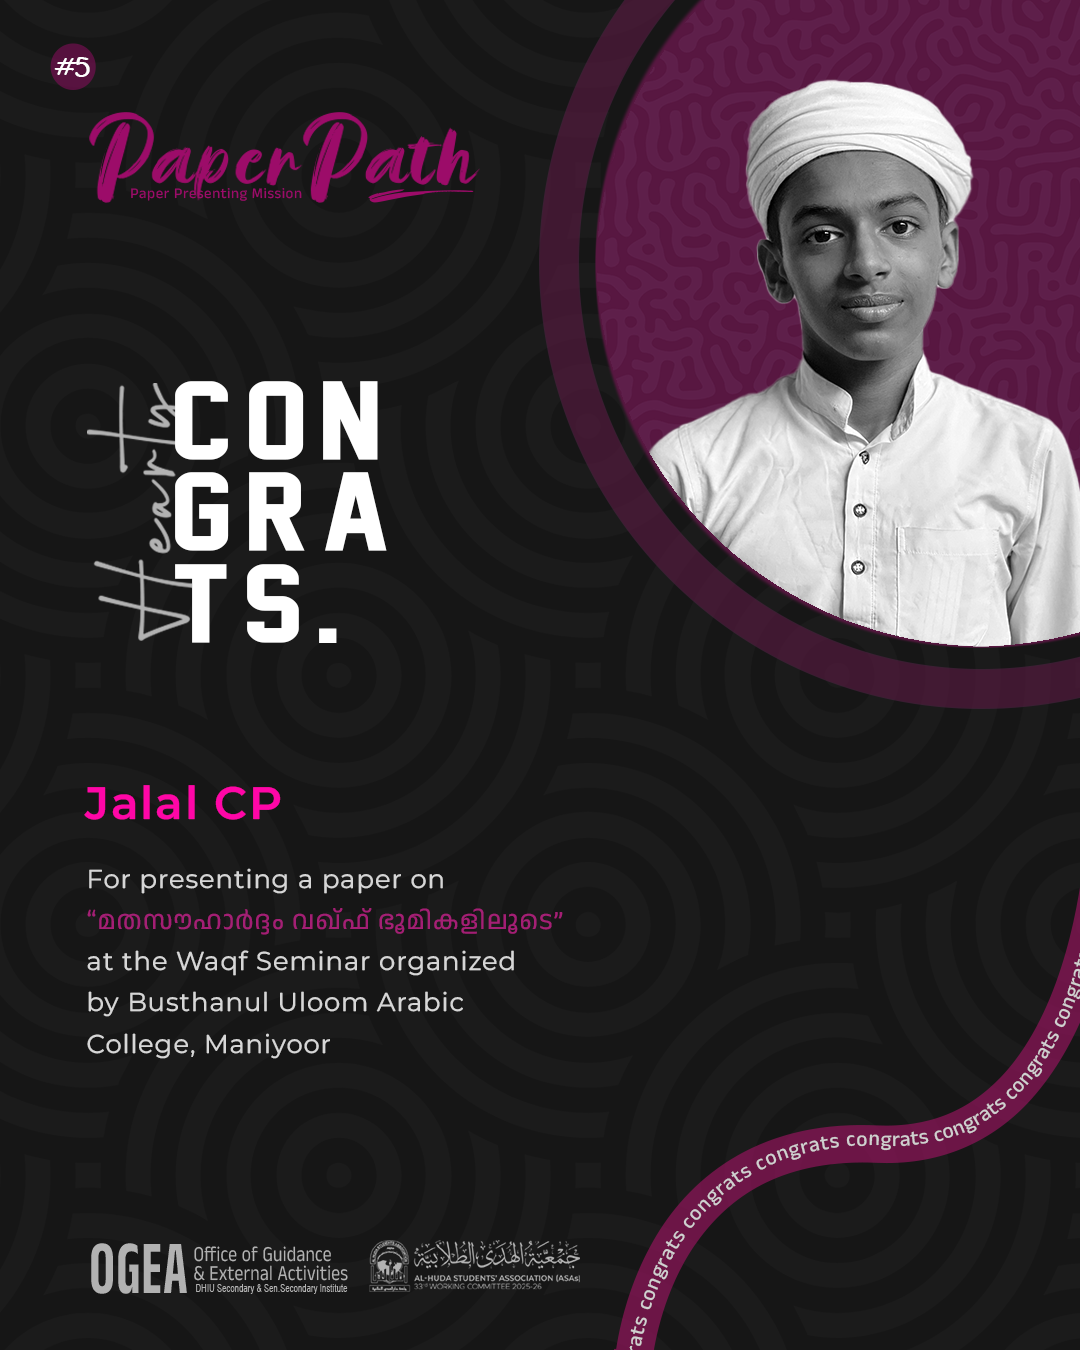
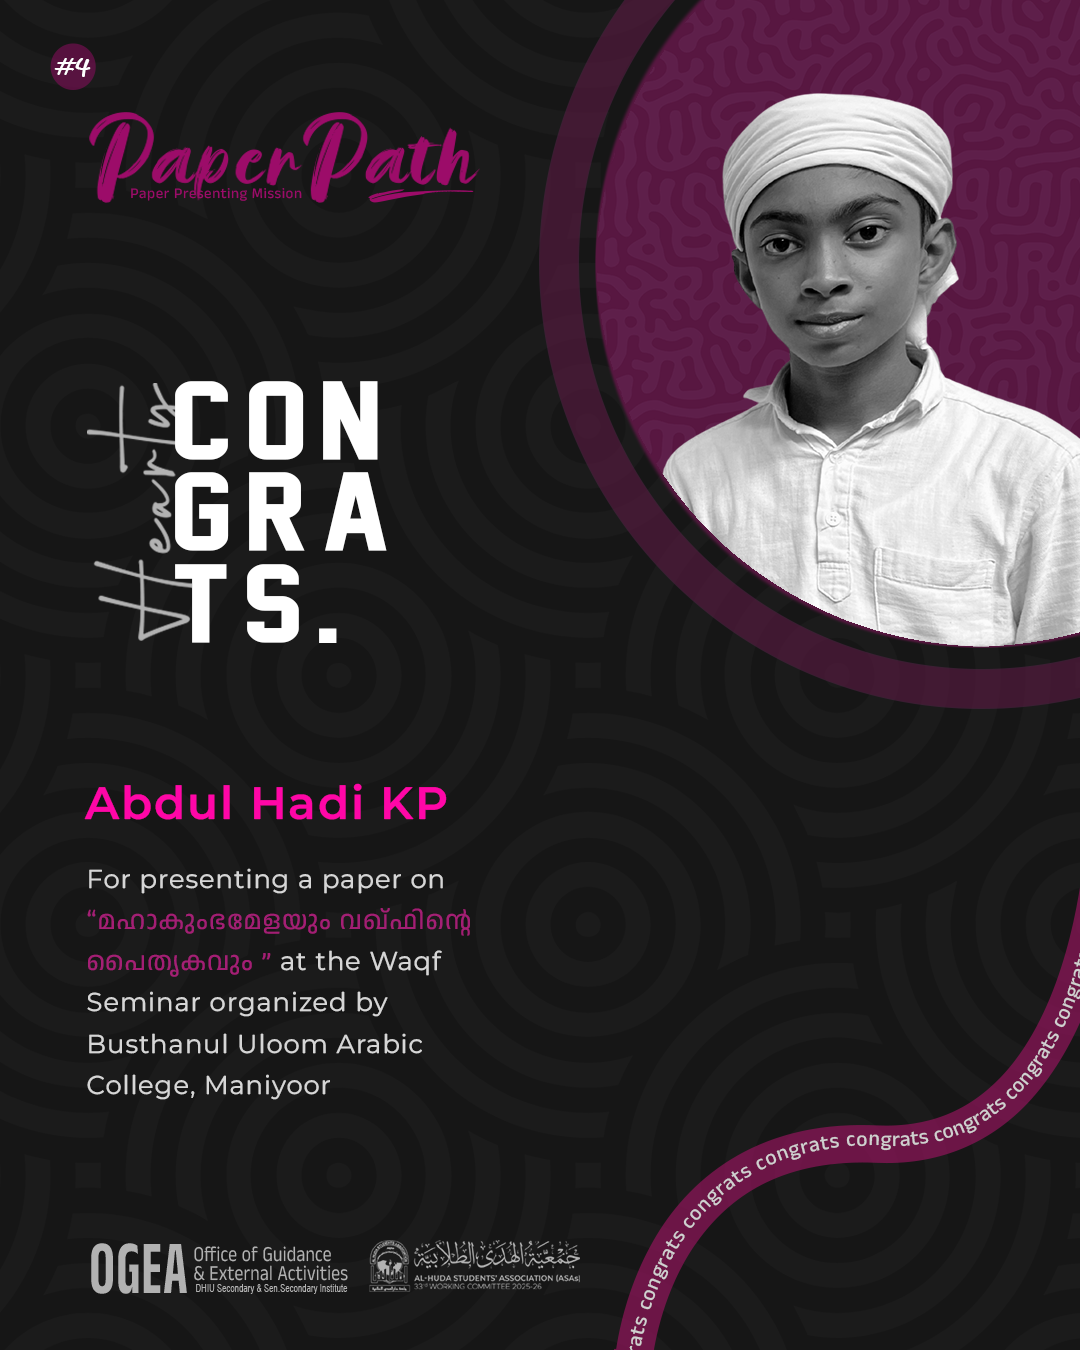
feat: update posters list with new images and restructured categories

diff --git a/src/lib/posters.js b/src/lib/posters.js
@@ -67,62 +67,62 @@ import talenttide12 from '../assets/posters/talenttide/12.jpg'
 // Total: 55 posters (30 Penreach + 13 PaperPath + 12 TalentTide) - Shuffled mix
 export const posters = [
   { id: 1, image: talenttide0, category: 'talenttide' },
-  { id: 2, image: paperpath13, category: 'paperpath' },
+  { id: 21, image: paperpath1, category: 'paperpath' },
+  { id: 48, image: penreach1, category: 'penreach' },
+  { id: 51, image: penreach2, category: 'penreach' },
+  { id: 41, image: paperpath2, category: 'paperpath' },
+  { id: 35, image: penreach3, category: 'penreach' },
+  { id: 9, image: paperpath3, category: 'paperpath' },
+  { id: 33, image: paperpath4, category: 'paperpath' },
+  { id: 25, image: paperpath5, category: 'paperpath' },
+  { id: 34, image: penreach4, category: 'penreach' },
+  { id: 16, image: penreach5, category: 'penreach' },
+  { id: 52, image: penreach6, category: 'penreach' },
+  { id: 31, image: talenttide3, category: 'talenttide' },
+  { id: 7, image: talenttide4, category: 'talenttide' },
+  { id: 47, image: paperpath6, category: 'paperpath' },
+  { id: 42, image: penreach7, category: 'penreach' },
+  { id: 10, image: penreach8, category: 'penreach' },
+  { id: 5, image: paperpath7, category: 'paperpath' },
+  { id: 28, image: penreach9, category: 'penreach' },
+  { id: 15, image: talenttide2, category: 'talenttide' },
+  { id: 55, image: penreach10, category: 'penreach' },
+  { id: 37, image: penreach11, category: 'penreach' },
+  { id: 6, image: penreach12, category: 'penreach' },
+  { id: 50, image: penreach13, category: 'penreach' },
+  { id: 20, image: penreach14, category: 'penreach' },
+  { id: 45, image: penreach15, category: 'penreach' },
+  { id: 17, image: paperpath8, category: 'paperpath' },
+  { id: 23, image: talenttide1, category: 'talenttide' },
+  { id: 36, image: talenttide5, category: 'talenttide' },
+  { id: 19, image: talenttide6, category: 'talenttide' },
+  { id: 43, image: penreach16, category: 'penreach' },
+  { id: 30, image: penreach17, category: 'penreach' },
+  { id: 11, image: talenttide7, category: 'talenttide' },
+  { id: 53, image: penreach18, category: 'penreach' },
   { id: 3, image: talenttide9, category: 'talenttide' },
   { id: 4, image: penreach25, category: 'penreach' },
-  { id: 5, image: paperpath7, category: 'paperpath' },
-  { id: 6, image: penreach12, category: 'penreach' },
-  { id: 7, image: talenttide4, category: 'talenttide' },
   { id: 8, image: penreach30, category: 'penreach' },
-  { id: 9, image: paperpath3, category: 'paperpath' },
-  { id: 10, image: penreach8, category: 'penreach' },
-  { id: 11, image: talenttide7, category: 'talenttide' },
   { id: 12, image: talenttide10, category: 'talenttide' },
   { id: 13, image: paperpath11, category: 'paperpath' },
   { id: 14, image: penreach19, category: 'penreach' },
-  { id: 15, image: talenttide2, category: 'talenttide' },
-  { id: 16, image: penreach5, category: 'penreach' },
-  { id: 17, image: paperpath8, category: 'paperpath' },
   { id: 18, image: penreach28, category: 'penreach' },
-  { id: 19, image: talenttide6, category: 'talenttide' },
-  { id: 20, image: penreach14, category: 'penreach' },
-  { id: 21, image: paperpath1, category: 'paperpath' },
-  { id: 22, image: talenttide11, category: 'talenttide' },
-  { id: 23, image: talenttide1, category: 'talenttide' },
-  { id: 24, image: penreach22, category: 'penreach' },
-  { id: 25, image: paperpath5, category: 'paperpath' },
-  { id: 26, image: penreach29, category: 'penreach' },
   { id: 27, image: talenttide8, category: 'talenttide' },
-  { id: 28, image: penreach9, category: 'penreach' },
+  { id: 22, image: talenttide11, category: 'talenttide' },
+  { id: 24, image: penreach22, category: 'penreach' },
+  { id: 26, image: penreach29, category: 'penreach' },
   { id: 29, image: paperpath10, category: 'paperpath' },
-  { id: 30, image: penreach17, category: 'penreach' },
-  { id: 31, image: talenttide3, category: 'talenttide' },
   { id: 32, image: penreach26, category: 'penreach' },
-  { id: 33, image: paperpath4, category: 'paperpath' },
-  { id: 34, image: penreach4, category: 'penreach' },
-  { id: 35, image: penreach3, category: 'penreach' },
-  { id: 36, image: talenttide5, category: 'talenttide' },
-  { id: 37, image: penreach11, category: 'penreach' },
   { id: 38, image: paperpath12, category: 'paperpath' },
   { id: 39, image: penreach27, category: 'penreach' },
   { id: 40, image: penreach20, category: 'penreach' },
-  { id: 41, image: paperpath2, category: 'paperpath' },
-  { id: 42, image: penreach7, category: 'penreach' },
-  { id: 43, image: penreach16, category: 'penreach' },
   { id: 44, image: paperpath9, category: 'paperpath' },
-  { id: 45, image: penreach15, category: 'penreach' },
   { id: 46, image: penreach24, category: 'penreach' },
-  { id: 47, image: paperpath6, category: 'paperpath' },
-  { id: 48, image: penreach1, category: 'penreach' },
   { id: 49, image: penreach21, category: 'penreach' },
-  { id: 50, image: penreach13, category: 'penreach' },
-  { id: 51, image: penreach2, category: 'penreach' },
-  { id: 52, image: penreach6, category: 'penreach' },
-  { id: 53, image: penreach18, category: 'penreach' },
   { id: 54, image: penreach23, category: 'penreach' },
-  { id: 55, image: penreach10, category: 'penreach' },
-  { id: 56, image: talenttide12, category: 'talenttide' },
+  { id: 2, image: paperpath13, category: 'paperpath' },
   { id: 57, image: paperpath14, category: 'paperpath' },
   { id: 58, image: paperpath15, category: 'paperpath' },
-  { id: 59, image: paperpath16, category: 'paperpath' }
+  { id: 59, image: paperpath16, category: 'paperpath' },
+  { id: 56, image: talenttide12, category: 'talenttide' },
 ];
